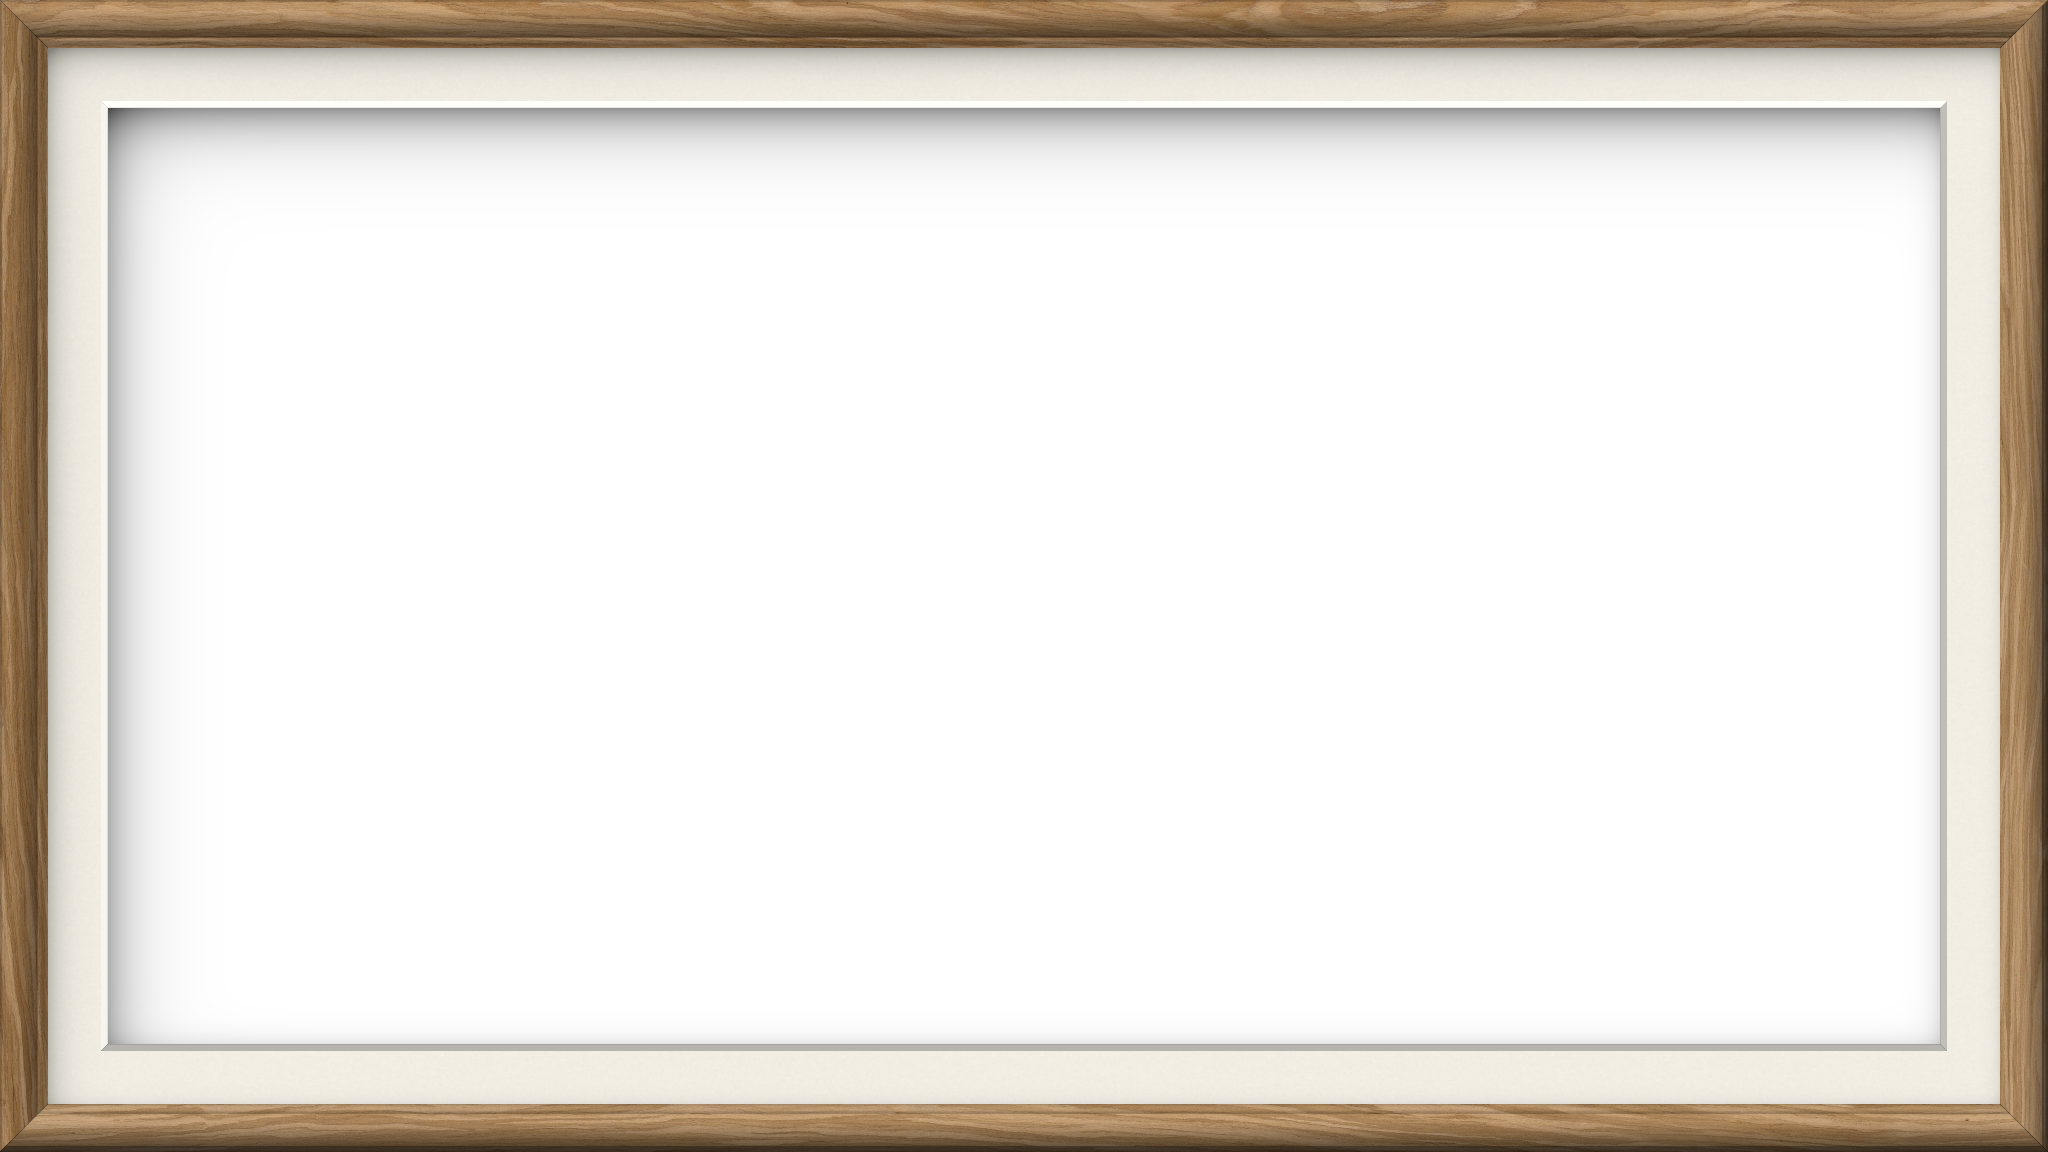
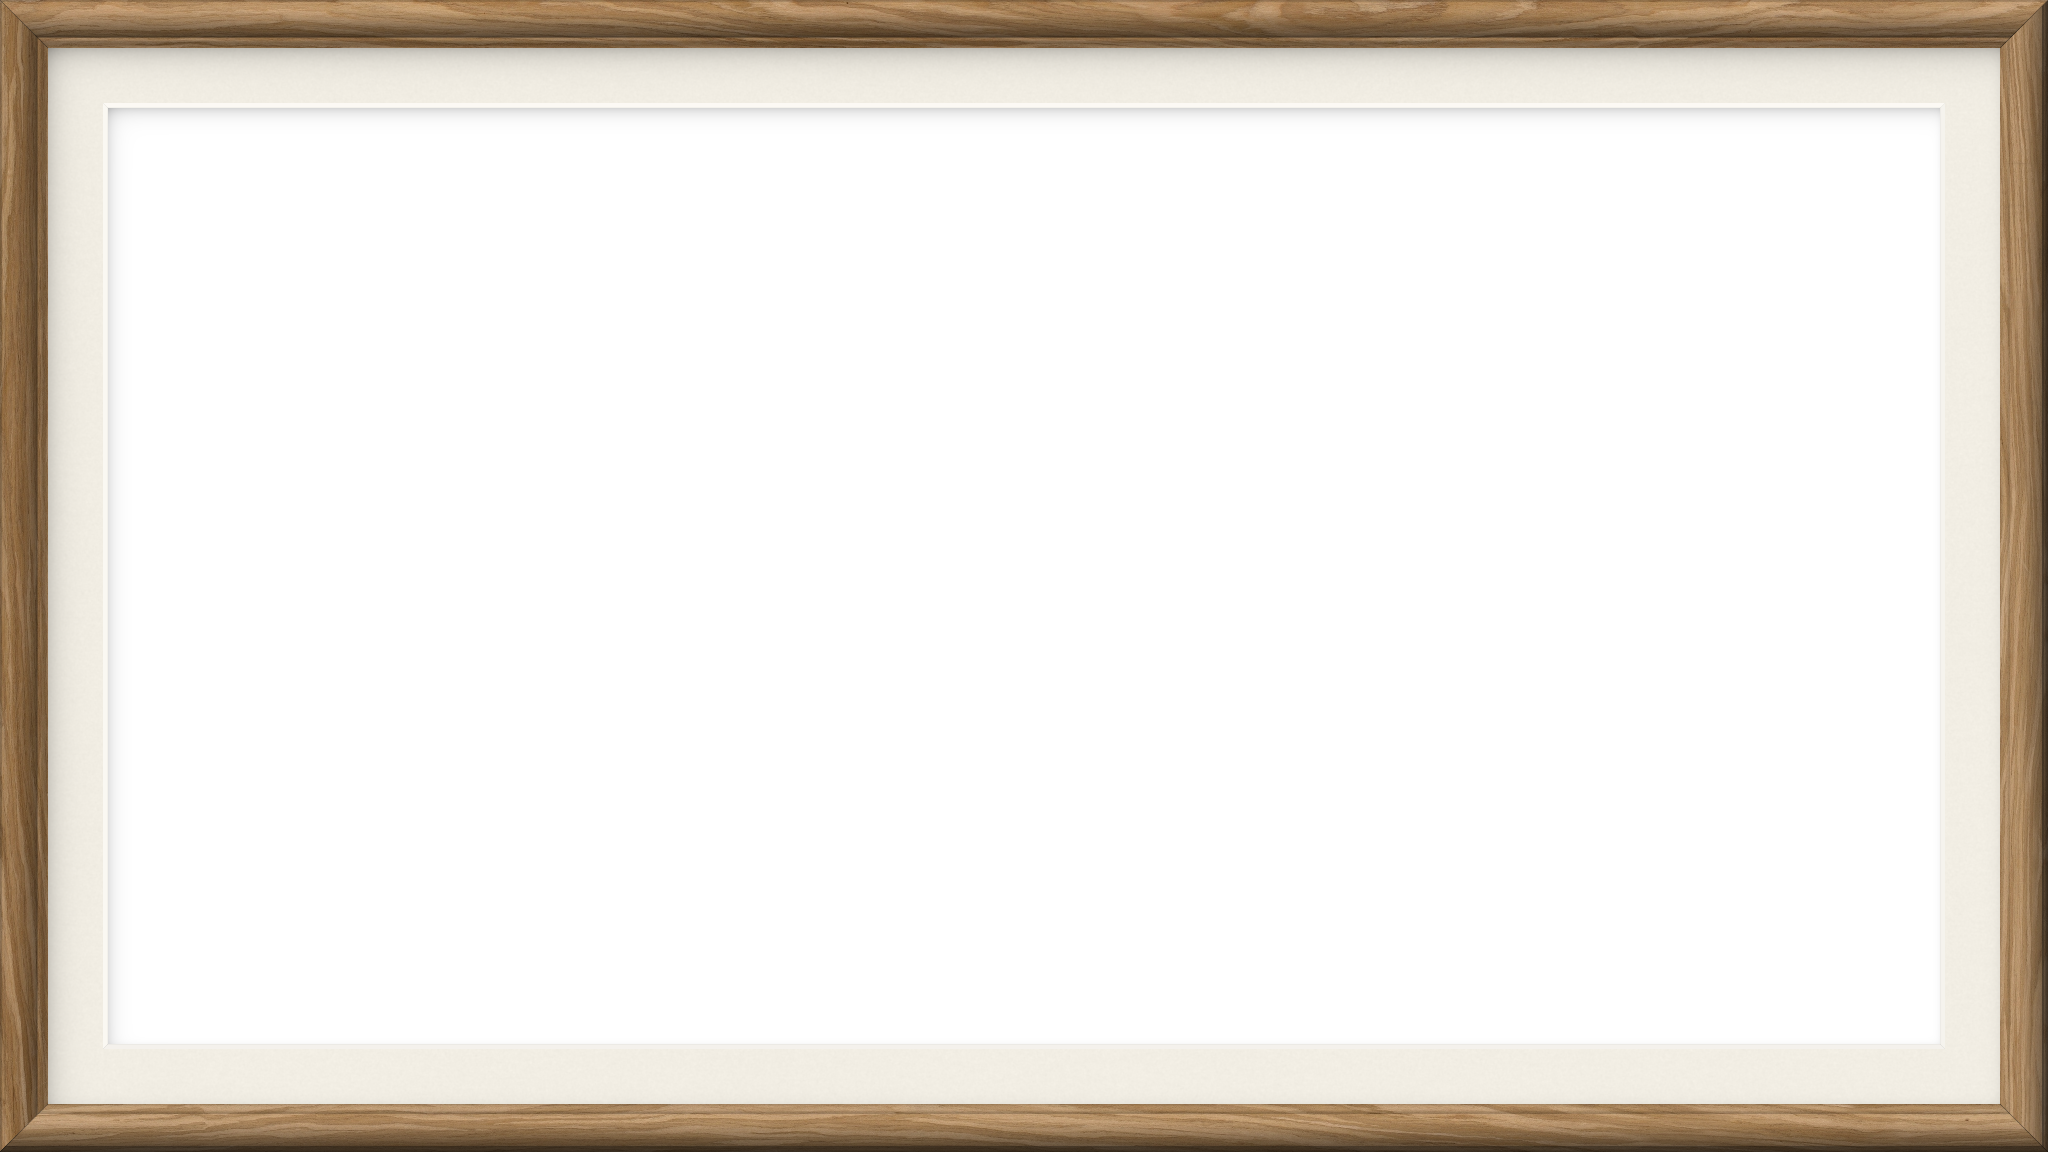
Flatter bevel, softer inner shadows

Changed region(s): [[0.0312, 0.0938, 0.9688, 0.9375]]

diff --git a/scripts/real_frames.py b/scripts/real_frames.py
@@ -160,7 +160,7 @@ def paint_moulding(img, width, profile, depth, finish, tex=None, finish_px=None)
     return img
 
 
-def paper_mat(img, mat_box, win, color, bevel=7):
+def paper_mat(img, mat_box, win, color, bevel=5):
     x0, y0, x1, y1 = mat_box
     rng = np.random.default_rng(3)
     m = (XX >= x0) & (XX < x1) & (YY >= y0) & (YY < y1)
@@ -170,7 +170,7 @@ def paper_mat(img, mat_box, win, color, bevel=7):
     paper = np.array(color, np.float32) + (grain + fibre + blotch)[..., None]
     img[m] = paper[m]
     dl, dt, dr, db = XX - x0, YY - y0, x1 - XX, y1 - YY
-    sh = np.exp(-dt / 14) * 0.30 + np.exp(-dl / 14) * 0.22 + np.exp(-db / 6) * 0.08 + np.exp(-dr / 6) * 0.10
+    sh = np.exp(-dt / 12) * 0.22 + np.exp(-dl / 12) * 0.16 + np.exp(-db / 5) * 0.05 + np.exp(-dr / 5) * 0.06
     img *= (1 - np.clip(sh, 0, 0.45) * m)[..., None]
     wx0, wy0, wx1, wy1 = win
     bm, bd, bs, bmitre = ring((wx0 - bevel, wy0 - bevel, wx1 + bevel, wy1 + bevel), bevel)
@@ -179,10 +179,10 @@ def paper_mat(img, mat_box, win, color, bevel=7):
     for s, (fx, fy) in face.items():
         nv = np.array([fx, fy, 0.7], np.float32)
         nv /= np.linalg.norm(nv)
-        lum[bs == s] = 0.72 + 0.34 * max(0.0, float(nv @ LIGHT))
-    bcol = np.array([252, 250, 244], np.float32) * lum[..., None]
-    bcol *= (1 - np.exp(-(bmitre / 0.6) ** 2) * 0.12)[..., None]
-    bcol *= (1 - np.exp(-((bd - (bevel - 0.5)) / 0.6) ** 2) * 0.18)[..., None]
+        lum[bs == s] = 0.965 + 0.035 * max(0.0, float(nv @ LIGHT))  # a cut edge, not an embossed button
+    bcol = (np.array(color, np.float32) * 0.15 + np.array([255, 253, 248], np.float32) * 0.85) * lum[..., None]
+    bcol *= (1 - np.exp(-(bmitre / 0.6) ** 2) * 0.05)[..., None]
+    bcol *= (1 - np.exp(-((bd - (bevel - 0.5)) / 0.6) ** 2) * 0.06)[..., None]
     img[bm] = bcol[bm]
     return img
 
@@ -195,7 +195,7 @@ def floater_gap(img, box, win):
     return img
 
 
-def inner_shadow(win, depth=26, strength=0.42):
+def inner_shadow(win, depth=7, strength=0.16):
     x0, y0, x1, y1 = win
     inside = ((XX >= x0) & (XX < x1) & (YY >= y0) & (YY < y1)).astype(np.float32)
     dt, dl = np.clip(YY - y0, 0, None), np.clip(XX - x0, 0, None)
@@ -215,9 +215,9 @@ def build(name, mould, mat, gap, spec, path):
         sh = inner_shadow(win)
     elif gap:
         img = floater_gap(img, (mould, mould, W - mould, H - mould), win)
-        sh = inner_shadow(win, depth=8, strength=0.22)
+        sh = inner_shadow(win, depth=5, strength=0.14)
     else:
-        sh = inner_shadow(win, depth=16, strength=0.38)
+        sh = inner_shadow(win, depth=10, strength=0.22)
     rgba = np.dstack([np.clip(img, 0, 255), np.full((H, W), 255, np.float32)])
     wm = (XX >= win[0]) & (XX < win[2]) & (YY >= win[1]) & (YY < win[3])
     rgba[wm] = 0

diff --git a/scripts/new_frames.py b/scripts/new_frames.py
@@ -268,7 +268,7 @@ def paint_baroque(img, width):
 
 
 # ============================================================== build
-def build(fid, mould, mat, painter, mat_color, path, shadow_nomat=(18, 0.40)):
+def build(fid, mould, mat, painter, mat_color, path, shadow_nomat=(10, 0.22)):
     img = np.zeros((H, W, 3), np.float32)
     img = painter(img, mould)
     b = mould + mat
@@ -294,4 +294,4 @@ if __name__ == "__main__":
     print(build("rustic-antique", 72, 0, rustic, None, os.path.join(OUT, "rustic-antique-no-mat.png")))
     print(build("baroque-black", 120, 48, paint_baroque, (240, 236, 226), os.path.join(OUT, "baroque-black.png")))
     print(build("baroque-black", 120, 0, paint_baroque, None, os.path.join(OUT, "baroque-black-no-mat.png"),
-                shadow_nomat=(22, 0.45)))
+                shadow_nomat=(12, 0.26)))
